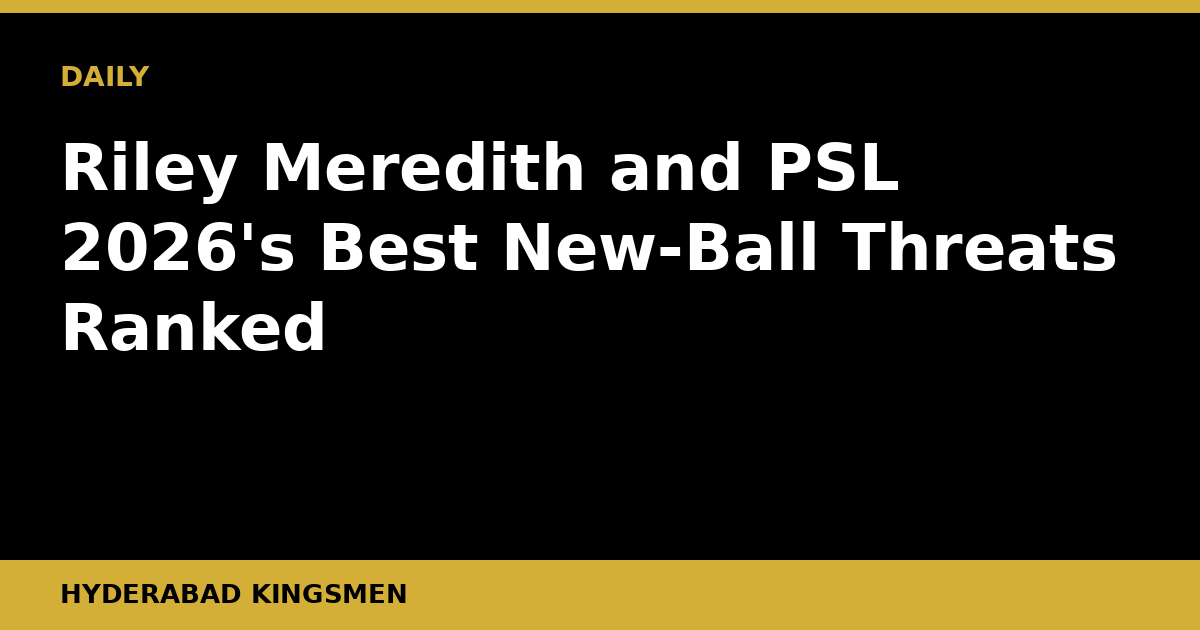
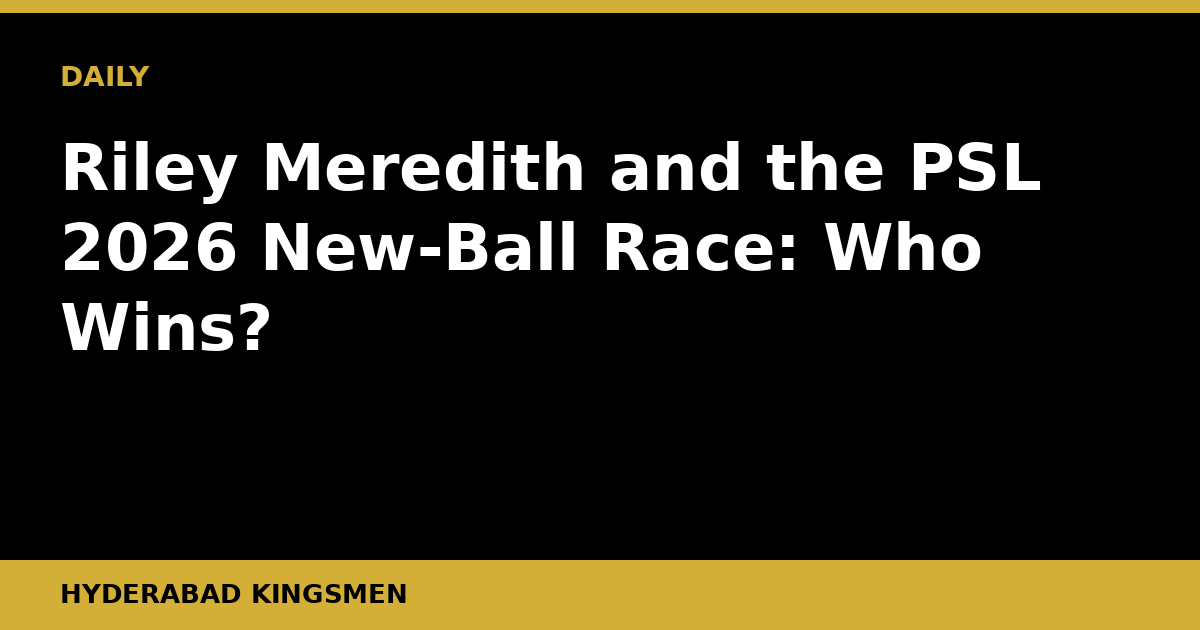
Daily post 2026-11-05

Changed region(s): [[0.185, 0.3317, 0.925, 0.4524], [0.6475, 0.2111, 0.8633, 0.3016], [0.0308, 0.4825, 0.2775, 0.573]]

diff --git a/content/posts/riley-meredith-psl-2026-new-ball-bowlers-compared.md b/content/posts/riley-meredith-psl-2026-new-ball-bowlers-compared.md
@@ -1,43 +1,47 @@
 ---
-title: "Riley Meredith and PSL 2026's Best New-Ball Threats Ranked"
+title: "Riley Meredith and the PSL 2026 New-Ball Race: Who Wins?"
 slug: "riley-meredith-psl-2026-new-ball-bowlers-compared"
-date: "2026-07-20T04:32:41+05:00"
+date: "2026-11-05T07:37:07+05:00"
 draft: false
-description: "Riley Meredith brings elite pace to PSL 2026, but how does he stack up against the league's other top new-ball operators? A comparative breakdown."
+description: "Riley Meredith brings raw pace to PSL 2026, but how does he stack up against the other marquee new-ball threats across the eight franchises? A hard look at the options."
 banner: "/banners/riley-meredith-psl-2026-new-ball-bowlers-compared.png"
 kicker: "ANALYSIS"
 author: "Hyderabad Kingsmen"
 translationKey: "riley-meredith-psl-2026-new-ball-bowlers-compared"
-tags: ["psl", "pakistan-cricket", "riley-meredith", "fast-bowling", "psl-2026", "naseem-shah", "hasan-ali"]
+tags: ["psl", "pakistan-cricket", "riley-meredith", "fast-bowling", "psl-2026", "shaheen-shah-afridi", "naseem-shah"]
 categories: ["Analysis"]
 ---
 
-Riley Meredith's name on a PSL 2026 team sheet changes the threat calculus at the top of an innings. The Australian speedster has clocked consistently above 145 km/h in the Big Bash and the IPL, and his arrival signals that at least one franchise is serious about winning the powerplay battle outright. But Meredith is not operating in a vacuum. PSL 2026 carries genuine new-ball firepower across multiple franchises, and the question worth asking is whether Meredith is the best of the lot, or simply the most recognisable name.
+Riley Meredith has never been a bowler you ease into. He arrives at the crease like a runaway freight train, and the PSL 2026 auction rooms clearly factored that in. But pace alone does not win T20 powerplays, and several other franchises have assembled new-ball arsenals that deserve equal scrutiny.
 
-## The Real Argument: Raw Pace vs. Craft
+## The Real Question Here
 
-New-ball bowling in T20 cricket has fractured into two distinct schools. The first is brute velocity, the kind that compresses a batter's reaction time so severely that technical deficiencies become irrelevant. Meredith belongs to that school. His stock delivery skids off a length, and his short ball is genuinely threatening rather than decoratively fast. The second school is seam movement and variation, bowlers who manipulate the new ball's hardness and swing to take wickets before batters settle. PSL 2026 has credible representatives of both.
+PSL 2026 is shaping up as a tournament where the powerplay battle could define outcomes more than any middle-overs fireworks. Batting lineups across the eight franchises have deepened considerably. The question is not simply who bowls fastest, but who can combine pace, movement, and tactical variety inside the first six overs on Pakistani pitches, where the ball does enough off the seam to reward skill but rarely enough to excuse wayward lines.
 
-Hasan Ali, when fit and operating at his competitive best, remains among the most complete new-ball bowlers Pakistan has produced in the T20 format. His outswinger to right-handers has accounted for some of the finest batters in world cricket, and his ability to reverse the narrative late in a powerplay, going fuller after establishing a length, gives captains genuine tactical flexibility. Meredith does not swing the ball conventionally. That is both a limitation and a feature: batters cannot leave him alone the way they might a swinging bowler.
+Meredith, the Queensland and Big Bash enforcer, is the most compelling pure pace option in the overseas pool. His radar can wobble, but when it locks in, he generates steep bounce and genuine throat-ball threat from a low, slingy action. That combination is rare. On the flat surfaces of Lahore and Karachi, rare and uncomfortable can be the difference between a powerplay score of 45 for one and 70 for none.
 
-Naseem Shah is the other conversation entirely. When the Balochistan fast bowler is operating at peak intensity, which has admittedly been intermittent given his injury record, he combines raw pace with late outswing in a manner that very few bowlers in world T20 cricket can replicate. On his best day, Naseem arguably profiles above Meredith because he adds swing to comparable speed. The caveat is that Naseem's best days have not always been reliably available.
+## Comparing the Field
 
-## Where Meredith Has the Edge
+The obvious benchmark is Shaheen Shah Afridi. Whatever franchise secures Shaheen for the new ball gets a left-armer who swings it both ways, reads conditions intelligently, and has the temperament of someone who has taken wickets in World Cup finals. His injury history remains the asterisk, but a fit Shaheen opening the bowling in PSL conditions is the gold standard, full stop.
 
-Durability and consistency across a franchise tournament. Meredith has shown in the BBL that he can carry a new-ball workload across an extended competition without significant drop-off in pace or execution. That matters in a PSL that runs across several weeks. He is also an exceptional death bowler, which means his captain can deploy him across multiple phases rather than ring-fencing him purely for the powerplay.
+Hasan Ali, when his back is cooperative, still generates sharp off-cutters and an awkward angle for right-handers. He is not quite the enforcer he once was, but his wicket-taking instincts at the top of an innings are underrated. Franchises that have written him off on form alone may find themselves revisiting that view mid-tournament.
 
-His yorker, combined with his natural pace, makes him one of the more difficult bowlers to farm in the final two overs. For any franchise calculating resource allocation, a bowler who can win you both the first six overs and the last two is an asset that justifies a premium category slot.
+Naseem Shah sits in a different category entirely. Still only in his early twenties, Naseem brings a combination of outswing and genuine pace that few bowlers his age can match globally. His PSL record under pressure has been inconsistent, but his ceiling remains higher than almost any Pakistani pacer currently active. If he is fully match-fit and carrying rhythm from whatever international cricket precedes the tournament, he is arguably the most dangerous new-ball option in the entire competition.
 
-Shaheen Shah Afridi, provided he is in the tournament at all given national team commitments, resets this entire conversation. At full tilt, Shaheen with the new ball, angling into right-handers and shaping away from left-handers, is as good as anyone in global T20 cricket right now. But PSL franchises and the PCB have historically had an awkward relationship with scheduling around Test and ODI commitments, and Shaheen's availability across the full tournament cannot be assumed.
+From the overseas contingent, Meredith's closest rival in pure pace terms is likely to be whoever fills the aggressive Australian-style seamer slot across other franchises. Names like Lockie Ferguson, if available from the IPL window, or other high-velocity operators from the Caribbean and South Africa bring similar short-ball threat with arguably better T20 economy discipline than Meredith has shown across his career.
 
-## What the Meredith Signing Actually Signals
+## What Meredith Offers That Others Do Not
 
-Franchises that have invested in overseas pace in PSL 2026 are betting that subcontinental pitches in February and March will carry enough for express bowling to dominate. That read is not guaranteed. Lahore and Karachi pitches have historically rewarded spin and variation once the dew arrives in the evening, and a right-arm quick who cannot spin the ball or change pace significantly becomes easier to manage once conditions shift.
+The honest case for Meredith is specificity. He does one thing at an extremely high level: he bowls very fast, with a scrambled-seam or back-of-a-length delivery that sits up into the body and hurries even accomplished batters. In a tournament where top-order batters have faced everything and are largely untroubled by movement, raw pace remains the disruptor.
 
-Meredith's franchise will need to surround him with a smart spinner who can complement his aggression, someone like Usama Mir or a quality left-arm orthodox bowler who can take the game into the middle overs on his terms.
+His economy in the Big Bash has not always been pristine, but the PSL pitches and their relatively less-receptive outfields can actually benefit a bowler who hits the pitch hard. The ball does not skid through as freely, and steep bounce becomes a greater weapon.
 
-## What to Watch
+The risk is his control in death overs, where his wayward spells have cost teams dearly in previous T20 competitions. Most franchises would be wise to use him as a powerplay specialist and protect him from the final two overs unless conditions firmly dictate otherwise.
 
-The powerplay head-to-head numbers will tell the story quickly. Track Meredith's economy and strike rate in overs one to six across his first four matches and compare them directly with Naseem, Hasan, and any other overseas pacer operating in the same conditions. If Meredith's numbers hold below 7.5 runs per over with a strike rate under 12 in the powerplay, the case for him being PSL 2026's premier new-ball operator becomes very strong indeed.
+## What to Watch Going Forward
 
-If the dew wins, that is a different column.
+Watch how franchises deploy their new-ball pairings in the first three matches of PSL 2026. Early tactical decisions, whether a team pairs Meredith with a swing bowler to maximize both disciplines, or whether Shaheen and Naseem are trusted to carry the entire opening burst, will reveal coaching philosophies.
+
+Also watch the toss patterns. Pitches that have dew in the evening session reward pace bowling early. Franchises who win tosses and choose to bowl first in those conditions will likely expose their most dangerous new-ball options immediately, and that is when this comparative question gets answered in real time rather than on paper.
+
+Meredith is a genuine threat. He is not the automatic number one. The PSL 2026 new-ball picture is more competitive than it has been in years, and that is very good news for the tournament.
